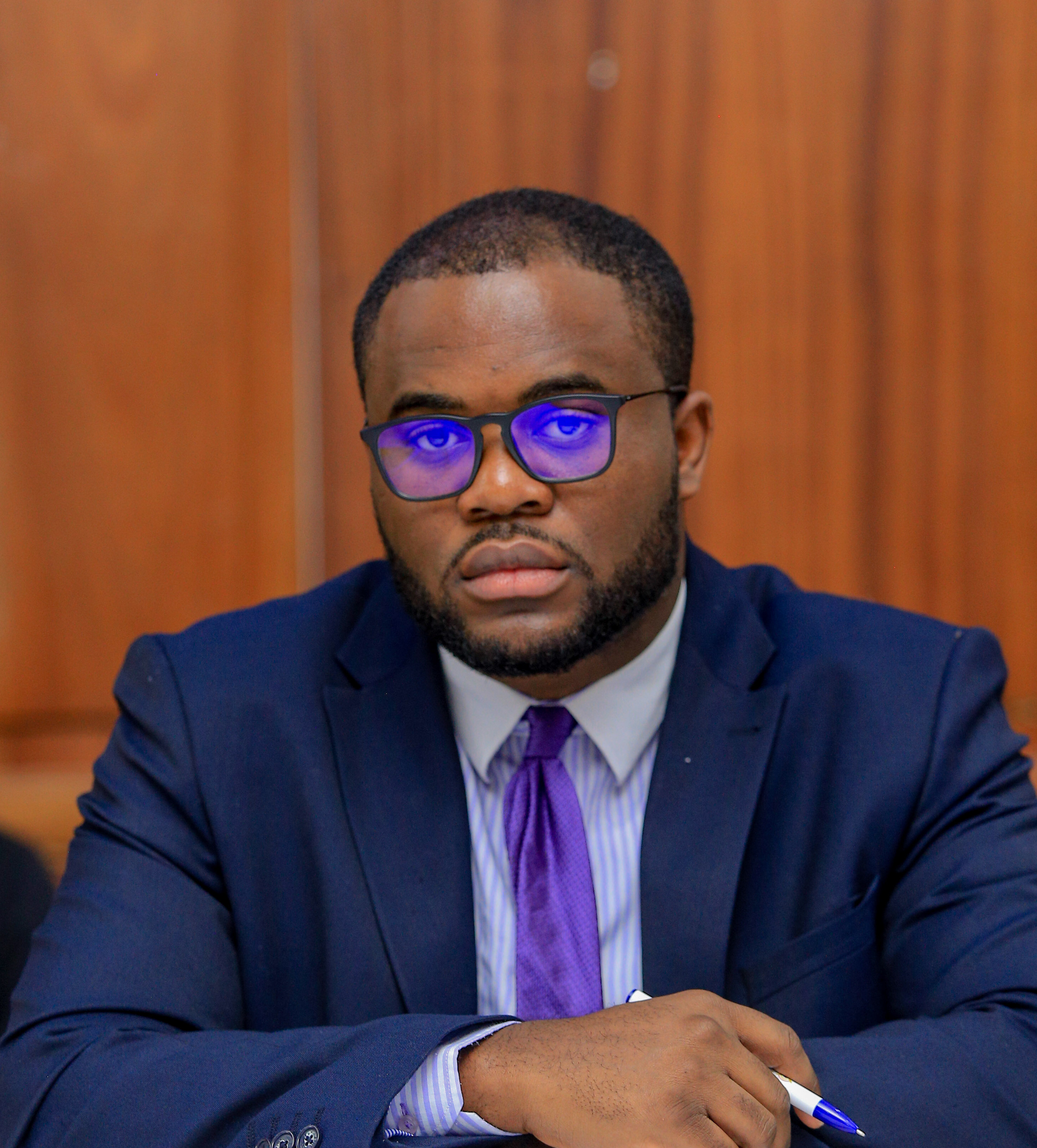
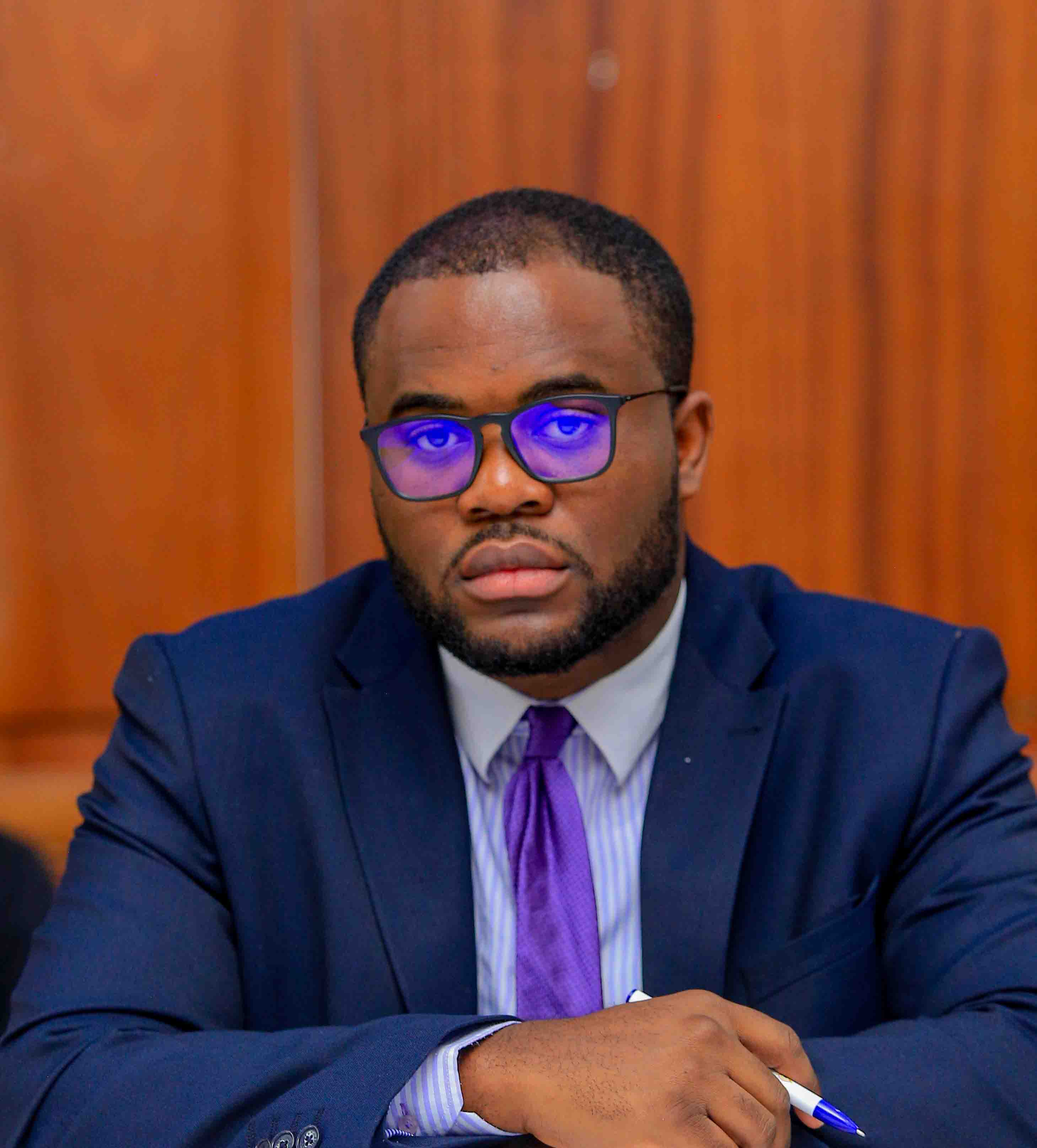
fix images compress

diff --git a/src/app/home.module.scss b/src/app/home.module.scss
@@ -149,7 +149,7 @@
             .avatar, .avatar2, .avatar3{
                 width: 95px;
                 height: 95px;
-                background: url('./../../public/avatar-denise.png');
+                background: url('./../../public/avatar-denise.jpg');
                 background-size: cover ;
                 background-position: center center;
                 border-radius: 100%;
@@ -157,7 +157,7 @@
                 flex-shrink: 0;
             }
             .avatar2{
-                background: url('./../../public/beton.png') !important;
+                background: url('./../../public/beton.jpg') !important;
                 background-size: cover !important;
                 background-position: center center !important;
             }

diff --git a/src/app/a-propos-du-fonarev/page.js b/src/app/a-propos-du-fonarev/page.js
@@ -17,7 +17,7 @@ const About = () => {
      <meta name="keywords" content="victimes,violences sexuelles, Etat congolais, guerre à l'est, réparation des victimes,réparation, aide aux victimes, soutien victiles, préjudices, massacre, republique democratique du congo, tuerie, minrais, 11%, redévance" />
     </Head>
     <main className={styles.main}>
-      <Banner pageTitle="A propos du Fonarev" background="/fonarev-about.jpeg"/>
+      <Banner pageTitle="A propos du Fonarev" background="/fonarev-about.jpg"/>
 
         <section className={styles.about} id="about">
             <div className={styles.imageContainer}>

diff --git a/src/app/a-propos-du-fonarev/style.module.scss b/src/app/a-propos-du-fonarev/style.module.scss
@@ -33,13 +33,13 @@
   
     .imageContainer{
         width: 48%;
-        background: url("./../../../public/about1.jpeg");
+        background: url("./../../../public/about1.jpg");
         background-position: center;
         background-size: cover;
     }
     .imageContaine2{
         width: 48%;
-        background: url("./../../../public/about2.jpeg");
+        background: url("./../../../public/about2.jpg");
         background-position: center;
         background-size: cover;
         height: 450px;

diff --git a/src/components/teamCard.js b/src/components/teamCard.js
@@ -1,6 +1,6 @@
 import styles from './team.module.scss'
 import Image from 'next/image'
-import Dga from './../../public/kevin-dga.jpg'
+
 
 import React from 'react'
 
